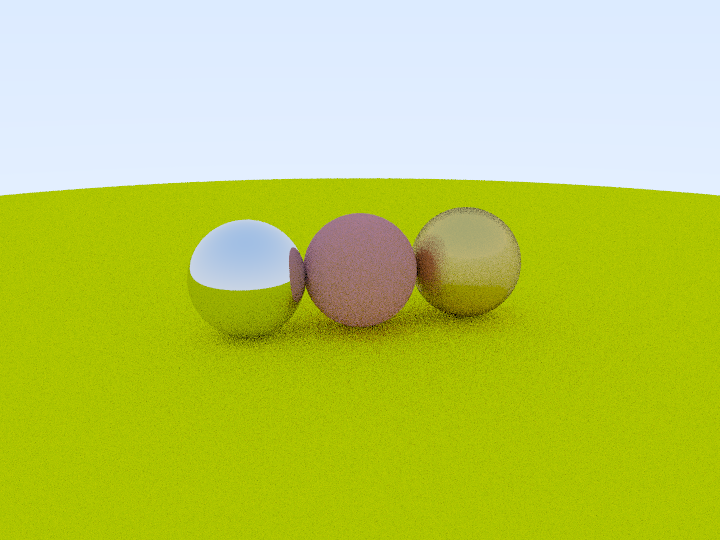
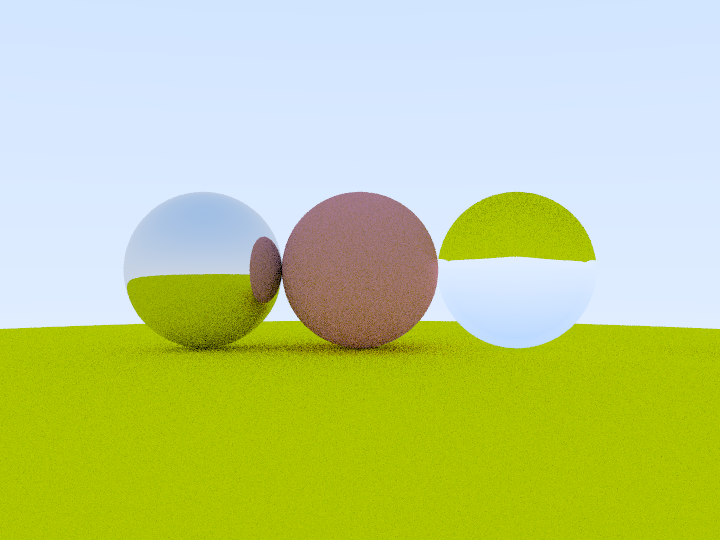
[MOD] do some optimization;

Changed region(s): [[0.0, 0.3259, 1.0, 0.6815]]

diff --git a/engine/rrt/material/Dilectric.cpp b/engine/rrt/material/Dilectric.cpp
@@ -5,6 +5,7 @@
 #include "Hittable.h"
 
 #include "GfxLib.h"
+#include "GfxDef.h"
 
 Dilectric::Dilectric(float refractIndex) : Matl(glm::vec3(1.f)), m_refractIndex(refractIndex)
 {
@@ -14,25 +15,35 @@ Dilectric::~Dilectric() = default;
 
 bool Dilectric::scatter(const Ray& input, const HitRecord& rec, glm::vec3& attenuation, Ray& scatterRay) const
 {
-	float cosTheta = std::fmin(glm::dot(-input.direction(), rec.n), 1.f);
-	float sinTheta = std::sqrt(1.f - cosTheta * cosTheta);
-
-	// if rec.frontFace is true, the ray comes from air(1.f) into Dilectric 
-	float ratio = rec.frontFace ? (1.f / m_refractIndex) : m_refractIndex;
-
-	bool internalReflection = (ratio * sinTheta) > 1.f;
-
-	glm::vec3 dir = GfxLib::refract(glm::normalize(input.direction()), rec.n, ratio);
-	// todo: the total internal reflection has a bug to be fixed
-	/*if (internalReflection)
+	glm::vec3 dir;
+	bool totalInternalReflection{ false };
+	if (rec.frontFace)
 	{
-		dir = GfxLib::reflect(glm::normalize(input.direction()), rec.n);
+		// ray is from air to inside the surface, only refraction happens
+		float ratio = 1.f / m_refractIndex;
+		dir = GfxLib::refract(glm::normalize(input.direction()), rec.n, ratio);
 	}
 	else
 	{
+		// ray is from inside the surface to ait, need to think of total internal reflection
+		float ratio = m_refractIndex;
+
+		float cosTheta = std::fmin(glm::dot(-input.direction(), rec.n), 1.f);
+		float sinTheta = std::sqrt(1.f - cosTheta * cosTheta);
+
+		totalInternalReflection = (ratio * sinTheta) > 1.f;
+
+		/*if (totalInternalReflection)
+		{
+			dir = GfxLib::reflect(glm::normalize(input.direction()), rec.n);
+		}
+		else
+		{
+			dir = GfxLib::refract(glm::normalize(input.direction()), rec.n, ratio);
+		}*/
 		dir = GfxLib::refract(glm::normalize(input.direction()), rec.n, ratio);
-	}*/
-	scatterRay.setOrigin(rec.pt);
+	}
+	scatterRay.setOrigin(totalInternalReflection ? (rec.pt + rec.n * EPSILON) : rec.pt);
 	scatterRay.setDirection(dir);
 	attenuation = m_albedo;
 	return true;

diff --git a/engine/rrt/RrtTest.cpp b/engine/rrt/RrtTest.cpp
@@ -56,7 +56,7 @@ void RrtTest::main()
 	path.append("/RrtTest.png");
 
 	RrtCamera camera;
-	camera.setPosition(glm::vec3(-2.f, 2.f, 6.f));
+	camera.setPosition(glm::vec3(0.f, 0.f, 4.5f));
 	camera.setLookAt(glm::vec3(0.f, 0.f, -1.f));
 	camera.setViewportSize(glm::vec2(width, height));
 	camera.setFov(35);
@@ -96,14 +96,14 @@ void RrtTest::draw(const RrtCamera& camera, int width, int height, int channel, 
 	std::shared_ptr<Matl> leftMatl = std::make_shared<Metal>(glm::vec3(0.8f, 0.8f, 0.8f));
 	sphereLeft->setMatl(leftMatl);
 
-	std::shared_ptr<Hittable> sphereRight = std::make_shared<Sphere>(glm::vec3(1.f, 0.f, -1.f), 0.5f);
+	/*std::shared_ptr<Hittable> sphereRight = std::make_shared<Sphere>(glm::vec3(1.f, 0.f, -1.f), 0.5f);
 	std::shared_ptr<Matl> rightMatl = std::make_shared<Metal>(glm::vec3(0.8f, 0.6f, 0.2f));
 	static_cast<Metal*>(rightMatl.get())->setFluzzy(0.5f);
-	sphereRight->setMatl(rightMatl);
-
-	/*std::shared_ptr<Hittable> sphereRight = std::make_shared<Sphere>(glm::vec3(1.f, 0.f, -2.f), 0.5f);
-	std::shared_ptr<Matl> rightMatl = std::make_shared<Dilectric>(1.5f);
 	sphereRight->setMatl(rightMatl);*/
+
+	std::shared_ptr<Hittable> sphereRight = std::make_shared<Sphere>(glm::vec3(1.f, 0.f, -1.f), 0.5f);
+	std::shared_ptr<Matl> rightMatl = std::make_shared<Dilectric>(1.5f);
+	sphereRight->setMatl(rightMatl);
 
 	std::shared_ptr<Hittable> sphereGround = std::make_shared<Sphere>(glm::vec3(0.f, -100.5f, -1.f), 100.f);
 	std::shared_ptr<Matl> groundMatl = std::make_shared<LambDiffuse>(glm::vec3(0.8f, 0.8f, 0.f));

diff --git a/engine/rrt/obj/Sphere.cpp b/engine/rrt/obj/Sphere.cpp
@@ -53,7 +53,7 @@ bool Sphere::hit(const Ray& ray, float tMin, float tMax, HitRecord& record) cons
 
     record.hit = true;
     record.t = root;
-    record.pt = ray.at(root);
+    record.pt = ray.at(record.t);
     glm::vec3 outsideN = glm::normalize(record.pt - m_center);
     record.frontFace = glm::dot(ray.direction(), outsideN) < 0.f;
     record.n = record.frontFace ? outsideN : -outsideN;

diff --git a/engine/gfx/include/GfxDef.h b/engine/gfx/include/GfxDef.h
@@ -14,6 +14,9 @@ static const char* U_SMP_SPEC = "u_spec";
 static const char* U_BG_COLOR = "u_bgColor";
 static const char* U_EYS_POS  = "u_eysPos";
 
+/* Single-precision epsilon. */
+#define EPSILON 1e-5f
+
 enum ShaderType : uint8_t
 {
     SHADER_OBJ,
